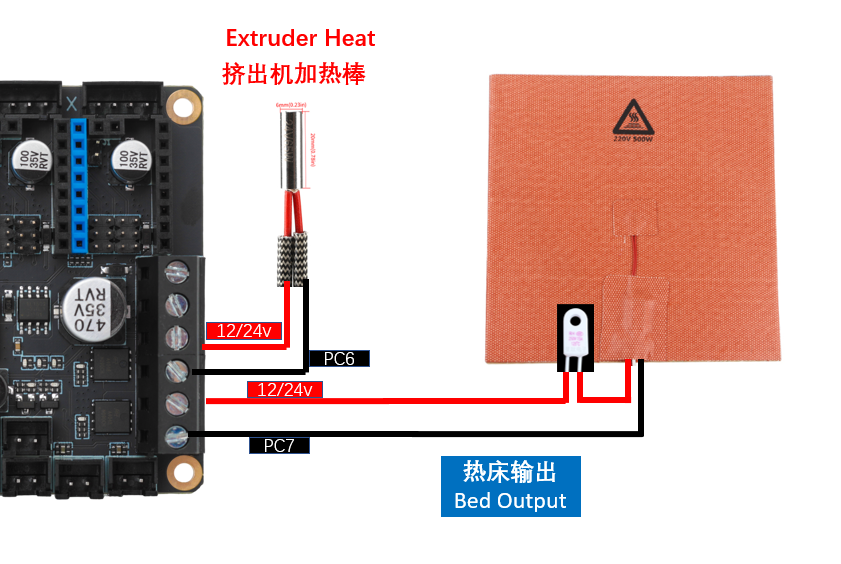
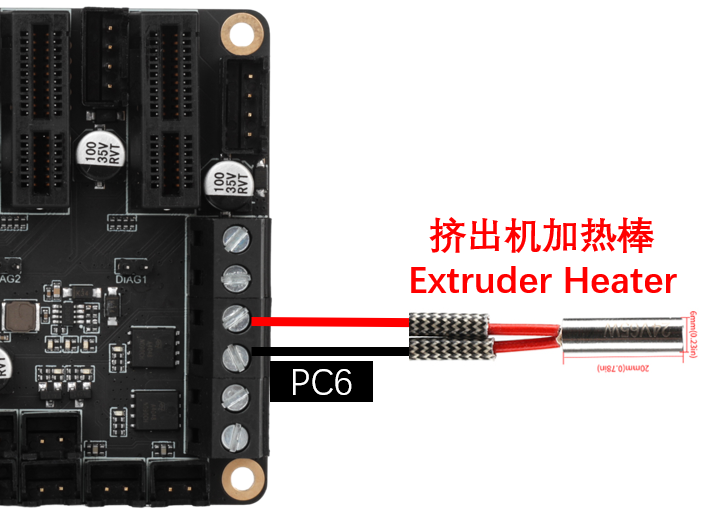
d5p接线图更新

diff --git a/docs/board/fly_dp5/adxl345.md b/docs/board/fly_dp5/adxl345.md
@@ -4,7 +4,7 @@
 
 加速度计的链接方式如下图所示
 
-<img src="../../images/boards/fly_d5/adxl345.png" alt="adxl345" style="zoom:70%;" />
+<img src="../../images/boards/fly_dp5/adxl345.png" alt="adxl345" style="zoom:90%;" />
 
 ## 2. 配置
 

diff --git a/docs/board/fly_dp5/3dmodel.md b/docs/board/fly_dp5/3dmodel.md
@@ -1,5 +1,5 @@
 # FLY-D5 3D模型
 
 ```3dmodel
-https://cdn.mellow.klipper.cn/STEP/FLY-d5.step
+https://cdn.mellow.klipper.cn/STEP/FLY-DP-5.step
 ```
